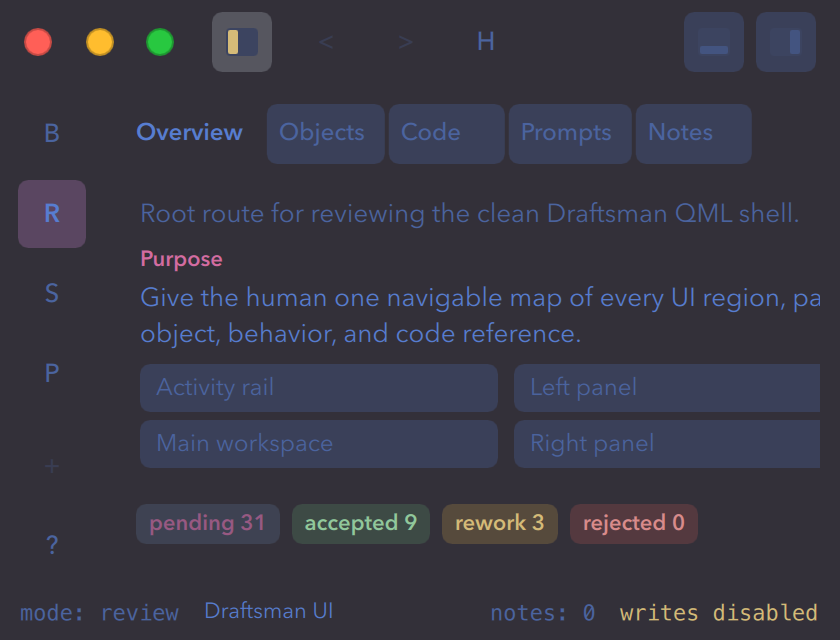
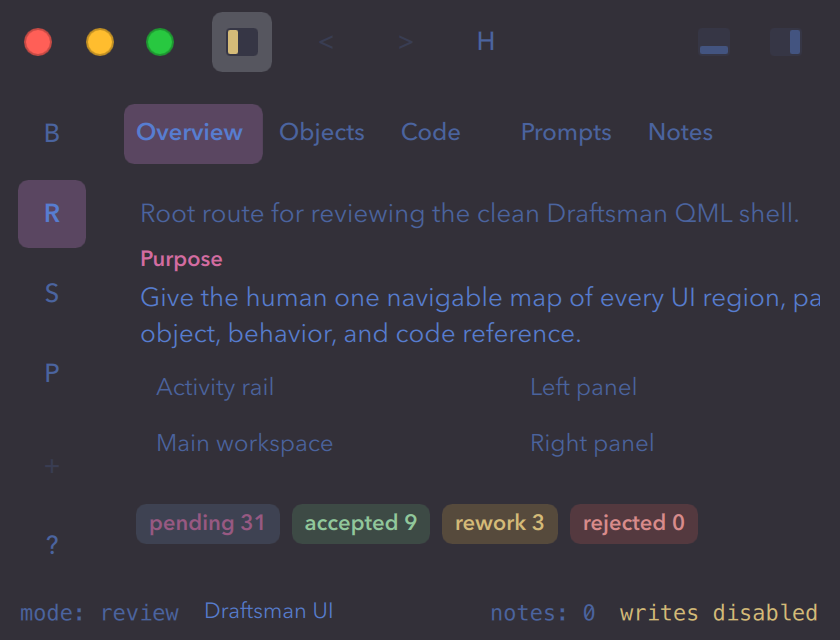
Flatten passive control surfaces

diff --git a/src/components/UiPanelToggleButton.qml b/src/components/UiPanelToggleButton.qml
@@ -16,7 +16,7 @@ Rectangle {
     radius: UiStyle.radiusSm
     color: mouseArea.containsMouse ? UiStyle.colorControlHover
         : panelState === "auto_hidden" ? UiStyle.mix(UiStyle.colorControl, UiStyle.colorWarning, 0.18)
-        : panelState === "collapsed" ? UiStyle.colorControl
+        : panelState === "collapsed" ? UiStyle.colorTransparent
         : UiStyle.colorTransparent
     border.width: UiStyle.borderNone
 
@@ -25,7 +25,7 @@ Rectangle {
         visible: panelState === "visible" && !mouseArea.containsMouse
         radius: parent.radius
         color: UiStyle.mix(UiStyle.colorControl, UiStyle.colorAccent, 0.12)
-        opacity: 0.45
+        opacity: 0.32
     }
 
     Rectangle {
@@ -45,7 +45,7 @@ Rectangle {
         width: 16
         height: 14
         radius: 2
-        color: UiStyle.mix(UiStyle.colorControl, UiStyle.colorText, 0.06)
+        color: UiStyle.mix(UiStyle.colorBase, UiStyle.colorText, 0.08)
         border.width: UiStyle.borderNone
     }
 

diff --git a/src/components/UiTextField.qml b/src/components/UiTextField.qml
@@ -10,9 +10,9 @@ TextField {
     selectedTextColor: UiStyle.colorWindow
     selectionColor: UiStyle.colorAccent
     background: Rectangle {
-        color: parent.activeFocus ? UiStyle.mix(UiStyle.colorControl, UiStyle.colorAccent, 0.12) : UiStyle.colorControl
-        border.width: parent.activeFocus ? UiStyle.borderThin : UiStyle.borderNone
-        border.color: parent.activeFocus ? UiStyle.colorBorderFocus : UiStyle.colorTransparent
+        color: UiStyle.colorControl
+        border.width: UiStyle.borderNone
+        border.color: UiStyle.colorTransparent
         radius: UiStyle.radiusSm
     }
 }

diff --git a/src/components/UiTab.qml b/src/components/UiTab.qml
@@ -16,7 +16,9 @@ Rectangle {
 
     implicitHeight: UiStyle.tabHeight
     implicitWidth: Math.max(58, labelText.implicitWidth + UiStyle.space16)
-    color: active ? UiStyle.colorPanelRaised : UiStyle.colorControl
+    color: active ? UiStyle.colorSelected
+        : mouseArea.containsMouse && clickable ? UiStyle.colorControlHover
+        : UiStyle.colorTransparent
     border.width: UiStyle.borderNone
     radius: UiStyle.radiusSm
 

diff --git a/src/features/ui_taxonomy/UiTaxonomyFocusPanel.qml b/src/features/ui_taxonomy/UiTaxonomyFocusPanel.qml
@@ -58,7 +58,7 @@ UiPanel {
                 delegate: Rectangle {
                     Layout.fillWidth: true
                     Layout.preferredHeight: 24
-                    color: UiStyle.colorControl
+                    color: UiStyle.colorTransparent
                     radius: UiStyle.radiusSm
                     Text {
                         anchors.fill: parent

diff --git a/src/components/UiCodeRefRow.qml b/src/components/UiCodeRefRow.qml
@@ -9,7 +9,7 @@ Rectangle {
     property bool hovered: false
 
     implicitHeight: 24
-    color: hovered ? UiStyle.colorControlHover : UiStyle.colorControl
+    color: hovered ? UiStyle.colorControlHover : UiStyle.colorTransparent
     radius: UiStyle.radiusSm
     border.width: UiStyle.borderNone
 

diff --git a/src/components/UiRouteCard.qml b/src/components/UiRouteCard.qml
@@ -13,7 +13,7 @@ Rectangle {
 
     implicitHeight: 84
     radius: UiStyle.radiusSm
-    color: hovered ? UiStyle.colorPanelRaised : UiStyle.colorPanel
+    color: hovered ? UiStyle.colorControlHover : UiStyle.colorTransparent
     border.width: UiStyle.borderNone
     property bool hovered: false
 
